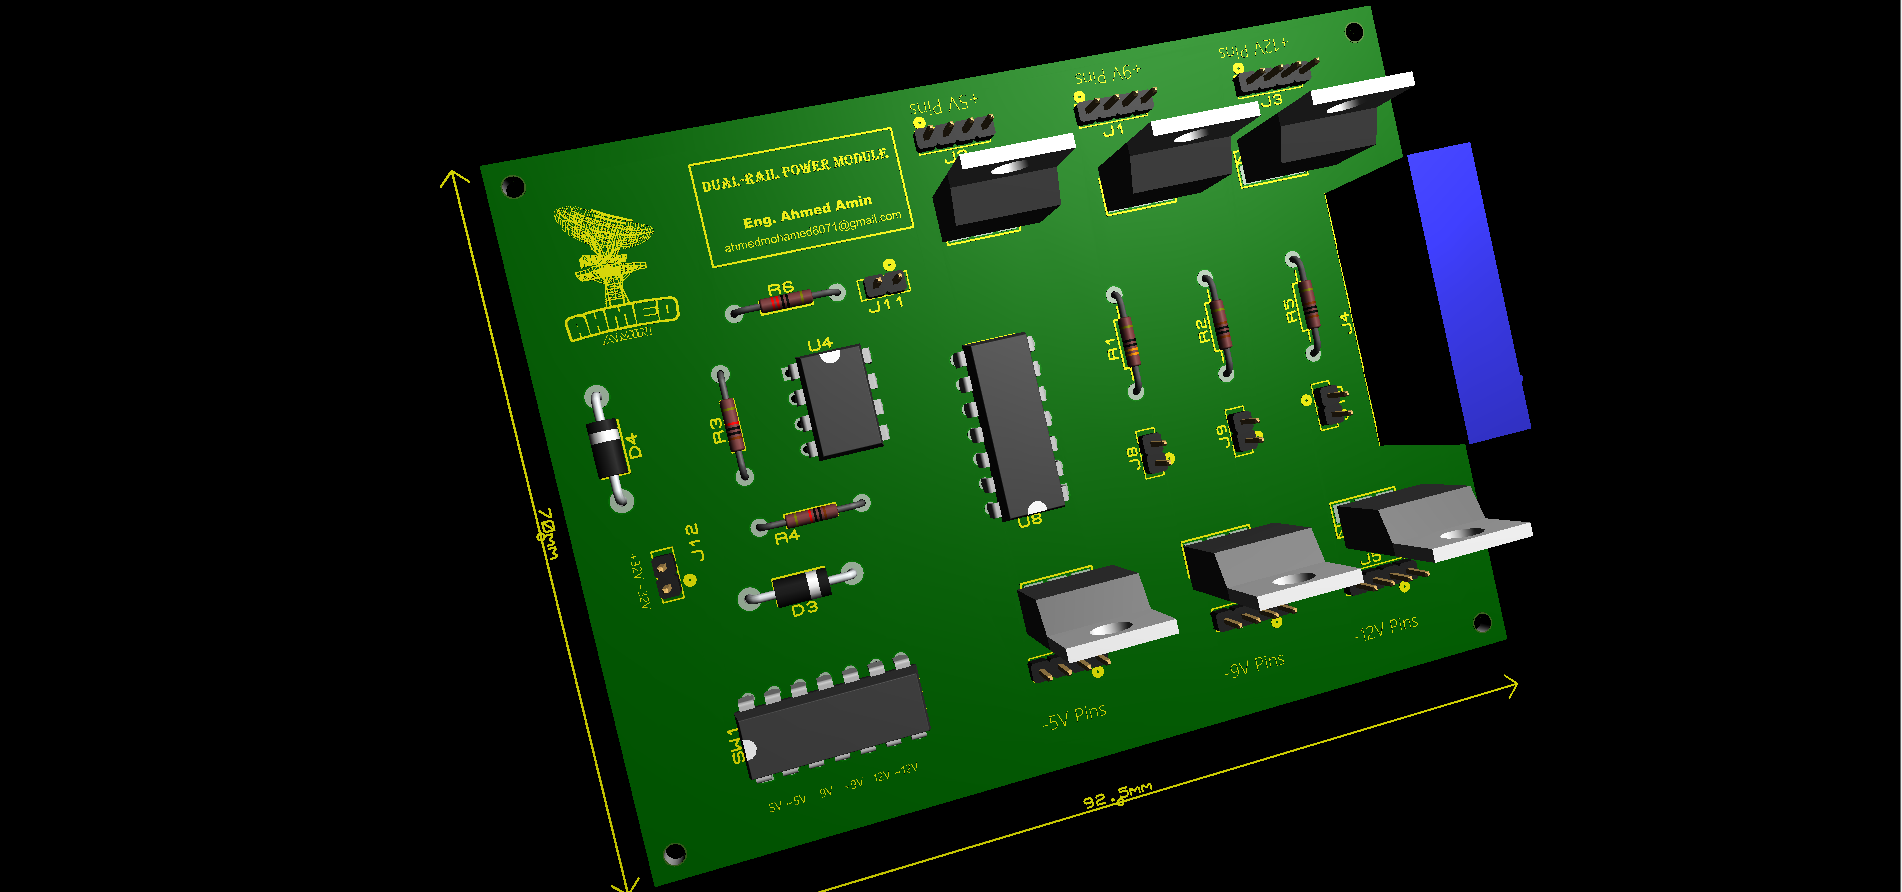
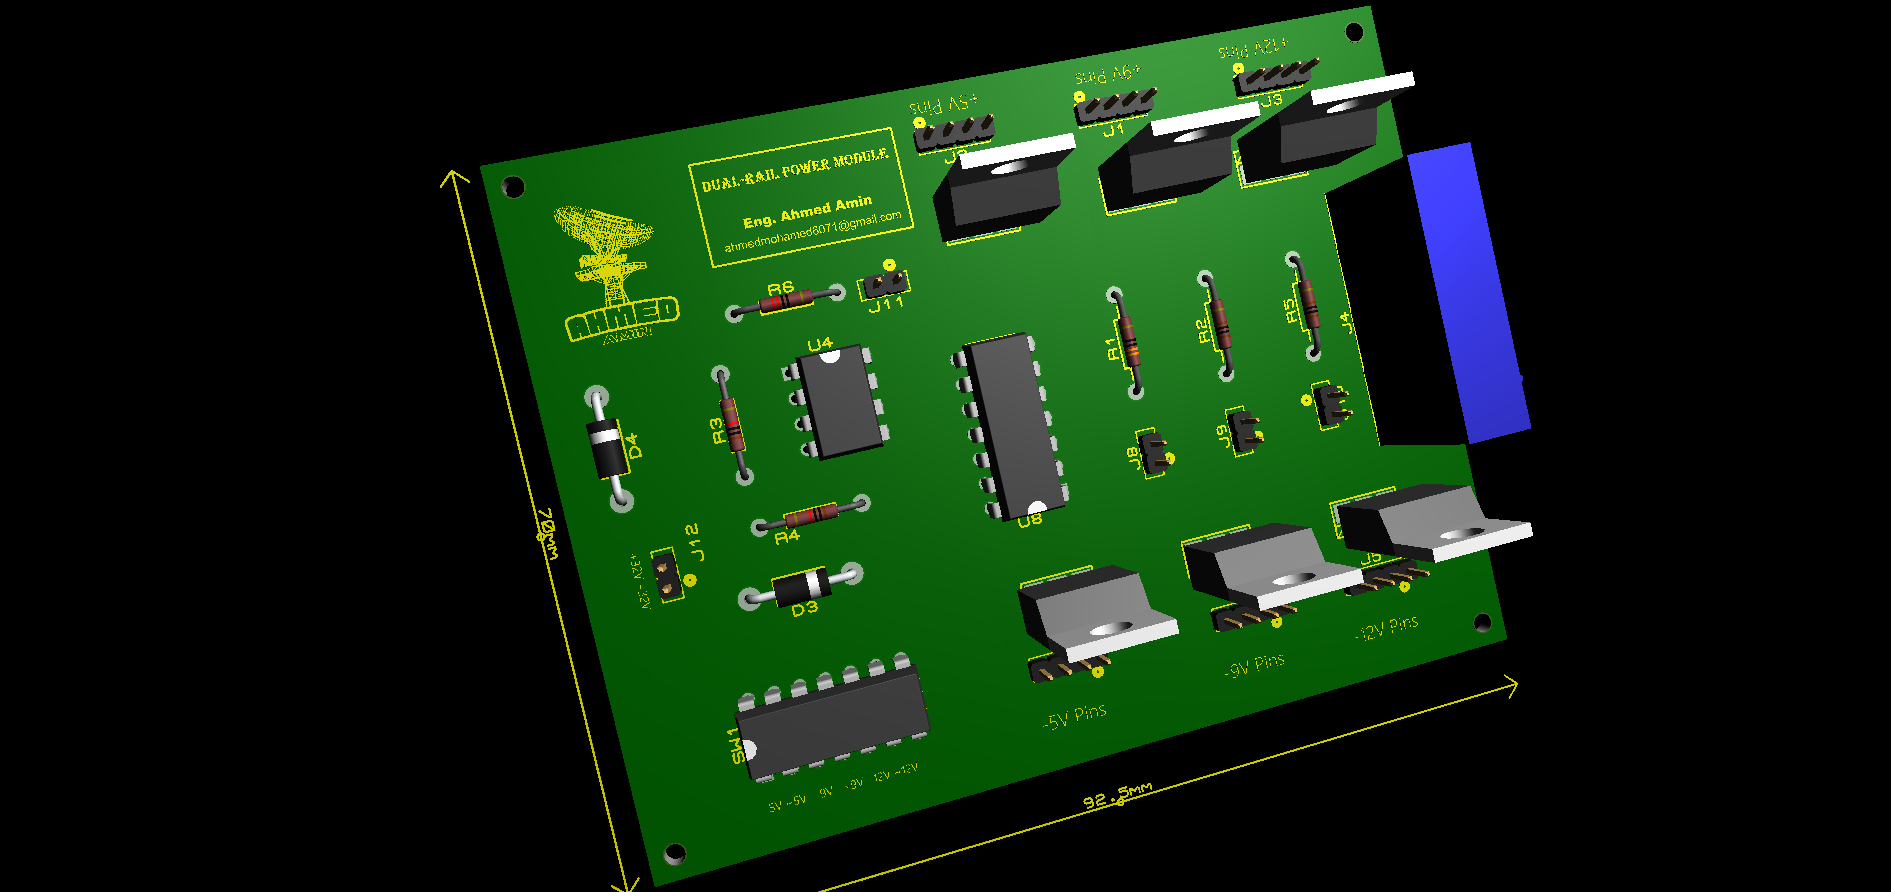
v4

diff --git a/mini-projects/Dual-Rail-Power-Supply-Fixed.html b/mini-projects/Dual-Rail-Power-Supply-Fixed.html
@@ -118,7 +118,7 @@
               <div class="swiper-wrapper align-items-center">
 
                 <div class="swiper-slide">
-                  <img width="740" height="640" src="../assets/img/portfolio/Dual-Rail-Power-Supply-Fixed-Output/pic5.PNG" alt="">
+                  <img width="740" height="620" src="../assets/img/portfolio/Dual-Rail-Power-Supply-Fixed-Output/pic5.PNG" alt="">
                 <!--
                   <video width="920" height="620" controls muted autoplay loop>
                     <source src="../assets/img/portfolio/" type="video/mp4">
